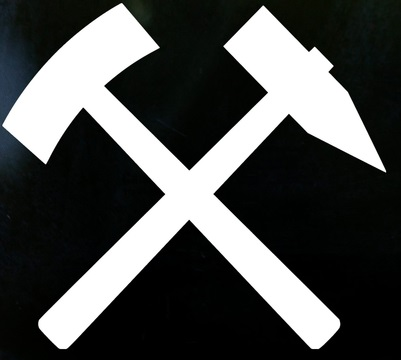
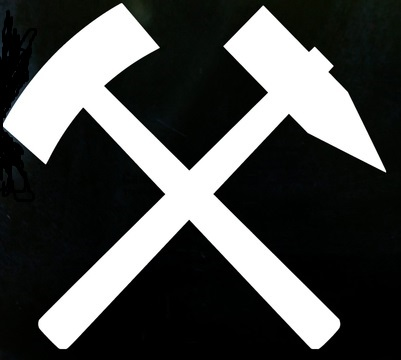
Updated style / all pages
uniform logo and fonts on all pages, created Favicon and added to all pages

Changed region(s): [[0.0, 0.0306, 0.0898, 0.4889]]

diff --git a/public/login.html b/public/login.html
@@ -16,43 +16,22 @@
     <link href="https://fonts.googleapis.com/css?family=Oswald:700|Patua+One|Roboto+Condensed:700" rel="stylesheet">
     <link href="https://fonts.googleapis.com/css?family=Fredericka+the+Great" rel="stylesheet">
     <link href="https://fonts.googleapis.com/css?family=Rye" rel="stylesheet">
+    <link rel='shortcut icon' href='favicon.ico' type='image/x-icon'/>
 </head>
 
 <body>
     <nav class="navbar navbar-expand-lg fixed-top">
-        <div class="col-sm-5"></div>
+        <div class="col-sm-5">
+        </div>
             <div class="container nav-container col-sm-1">
-            <!-- <a class="main-logo"><img src="./img/digger.jpg" height="55" width="55"></a> -->
                 <a class="main-logo"><img src="./img/hammer.jpg" height="45" width="45"></a>
             </div>
-            <!-- <a class="main-logo"><img src="./img/helmet.jpg" height="50" width="50"></a> -->
-            <div class="col-sm-4">
+
+            <div class="col-sm-6">
                 <a class="navbar-brand" href="#">News Miner</a>
             </div>
-            <!-- <button class="navbar-toggler" type="button" data-toggle="collapse" data-target="#navbarResponsive" aria-controls="navbarResponsive"
-                aria-expanded="false" aria-label="Toggle navigation">
-                <span class="navbar-toggler-icon"></span>
-            </button> -->
-
-
-
-            <!-- <div class="collapse navbar-collapse" id="navbarResponsive">
-                <ul class="navbar-nav ml-auto">
-                    <li class="nav-item active">
-                    </li>
-                    <li class="nav-item">
-                        <a class="nav-link" href="./main.html">Main</a>
-                        <span class="sr-only">(current)</span>
-                    </li>
-                    <li class="nav-item">
-                        <a class="nav-link" href="./user-setup.html">Profile</a>
-                    </li>
-                    <li class="nav-item">
-                        <a class="nav-link" href="./contact.html">Contact</a>
-                    </li>
-                </ul>
-            </div> -->
-        <div class="col-sm-2">
+    
+        <div class="col-sm-4">
         </div>
     </nav>
 

diff --git a/public/contact.html b/public/contact.html
@@ -13,14 +13,16 @@
     <script src="https://www.gstatic.com/firebasejs/4.12.1/firebase.js"></script>
     <link href="https://fonts.googleapis.com/css?family=Oswald:700|Patua+One|Roboto+Condensed:700" rel="stylesheet">
     <link href="https://maxcdn.bootstrapcdn.com/font-awesome/4.7.0/css/font-awesome.min.css" rel="stylesheet">
+    <link rel='shortcut icon' href='favicon.ico' type='image/x-icon'/>
+    <link href="https://fonts.googleapis.com/css?family=Fredericka+the+Great" rel="stylesheet">
 </head>
 
 <body>
     <nav class="navbar navbar-expand-lg fixed-top">
         <div class="container">
                         <!-- <a class="main-logo"><img src="./img/digger.jpg" height="45" width="45"></a> -->
-                        <!-- <a class="main-logo"><img src="./img/hammer.jpg" height="45" width="45"></a> -->
-                        <a class="main-logo"><img src="./img/helmet.jpg" height="45" width="45"></a>
+                        <a class="main-logo"><img src="./img/hammer.jpg" height="45" width="45"></a>
+                        <!-- <a class="main-logo"><img src="./img/helmet.jpg" height="45" width="45"></a> -->
             <a class="navbar-brand" href="#">News Miner</a>
             <button class="navbar-toggler" type="button" data-toggle="collapse" data-target="#navbarResponsive" aria-controls="navbarResponsive"
                 aria-expanded="false" aria-label="Toggle navigation">

diff --git a/public/user-setup.html b/public/user-setup.html
@@ -9,6 +9,8 @@
     <link rel="stylesheet" href="https://maxcdn.bootstrapcdn.com/bootstrap/4.0.0/css/bootstrap.min.css" integrity="sha384-Gn5384xqQ1aoWXA+058RXPxPg6fy4IWvTNh0E263XmFcJlSAwiGgFAW/dAiS6JXm" crossorigin="anonymous">
     <link rel="stylesheet" type="text/css" media="screen" href="./css/user-setup.css">
     <link href="https://fonts.googleapis.com/css?family=Oswald:700|Patua+One|Roboto+Condensed:700" rel="stylesheet">
+    <link rel='shortcut icon' href='favicon.ico' type='image/x-icon'/>
+    <link href="https://fonts.googleapis.com/css?family=Fredericka+the+Great" rel="stylesheet">
 
     <script src="https://code.jquery.com/jquery-3.2.1.slim.min.js" integrity="sha384-KJ3o2DKtIkvYIK3UENzmM7KCkRr/rE9/Qpg6aAZGJwFDMVNA/GpGFF93hXpG5KkN" crossorigin="anonymous"></script>
     <script src="https://cdnjs.cloudflare.com/ajax/libs/popper.js/1.12.9/umd/popper.min.js" integrity="sha384-ApNbgh9B+Y1QKtv3Rn7W3mgPxhU9K/ScQsAP7hUibX39j7fakFPskvXusvfa0b4Q" crossorigin="anonymous"></script>

diff --git a/public/main.html b/public/main.html
@@ -21,7 +21,9 @@
     <script src="https://code.jquery.com/ui/1.12.1/jquery-ui.js"></script>
     <script type="text/javascript" src="./js/main-article-list.js"></script>
     <!-- <link href="https://fonts.googleapis.com/css?family=PT+Serif" rel="stylesheet"> -->
+    <link href="https://fonts.googleapis.com/css?family=Fredericka+the+Great" rel="stylesheet">
     <link href="https://fonts.googleapis.com/css?family=Oswald:700|Patua+One|Roboto+Condensed:700" rel="stylesheet">
+    <link rel='shortcut icon' href='favicon.ico' type='image/x-icon'/>
 
     <!-- Search Meta Tags -->
     <meta property="og:type" content="website">

diff --git a/public/css/contact.css b/public/css/contact.css
@@ -28,6 +28,16 @@ p{
 	color: white;
 }
 
+.navbar-brand {
+	font-family: 'Fredericka the Great', cursive;
+	font-size: 30px;
+	color: white;
+}
+ 
+.card-body {
+	font-family: 'Fredericka the Great', cursive;
+}
+
 .a-footer{
 	color:#26a5d3;
 }
@@ -49,7 +59,7 @@ footer {
 }
 
 textarea.form-control{
-    height:100px;
+    height:200px;
 }
 
 .contact-form {
@@ -57,3 +67,4 @@ textarea.form-control{
     padding-left: 400X;
     padding-right: 400X;
 }
+

diff --git a/public/css/user-setup.css b/public/css/user-setup.css
@@ -17,6 +17,12 @@
 	color: white;
 }
 
+.navbar-brand {
+    font-family: 'Fredericka the Great', cursive;
+    font-size: 30px;
+    color: white;
+}
+
 .a-footer{
 	color:#26a5d3;
 }
@@ -56,7 +62,6 @@ footer {
 .a-footer {
     font-family: 'Patua One';
 }
-
 
 
 /* On small screens, set height to 'auto' for sidenav and grid */

diff --git a/public/css/login.css b/public/css/login.css
@@ -95,5 +95,11 @@ footer {
 .a-footer{
 	color: skyblue;
 }
-    color: red;
+
+/* body {
+    background-image: url('https://cdn.pixabay.com/photo/2017/02/03/17/17/night-sky-2035603_960_720.jpg');
+    height: 200px;
+    background-repeat: no-repeat;
+    background-position: center bottom;
+
 } */

diff --git a/public/css/main.css b/public/css/main.css
@@ -14,8 +14,14 @@ html {
     font-family: 'Patua One';
 }
 
-.navbar-nav, .navbar-brand {
+.nav-link {
 	color: white;
+}
+
+.navbar-brand{
+    font-family: 'Fredericka the Great', cursive;
+    font-size: 30px;
+    color: white;
 }
 
 .a-footer{
